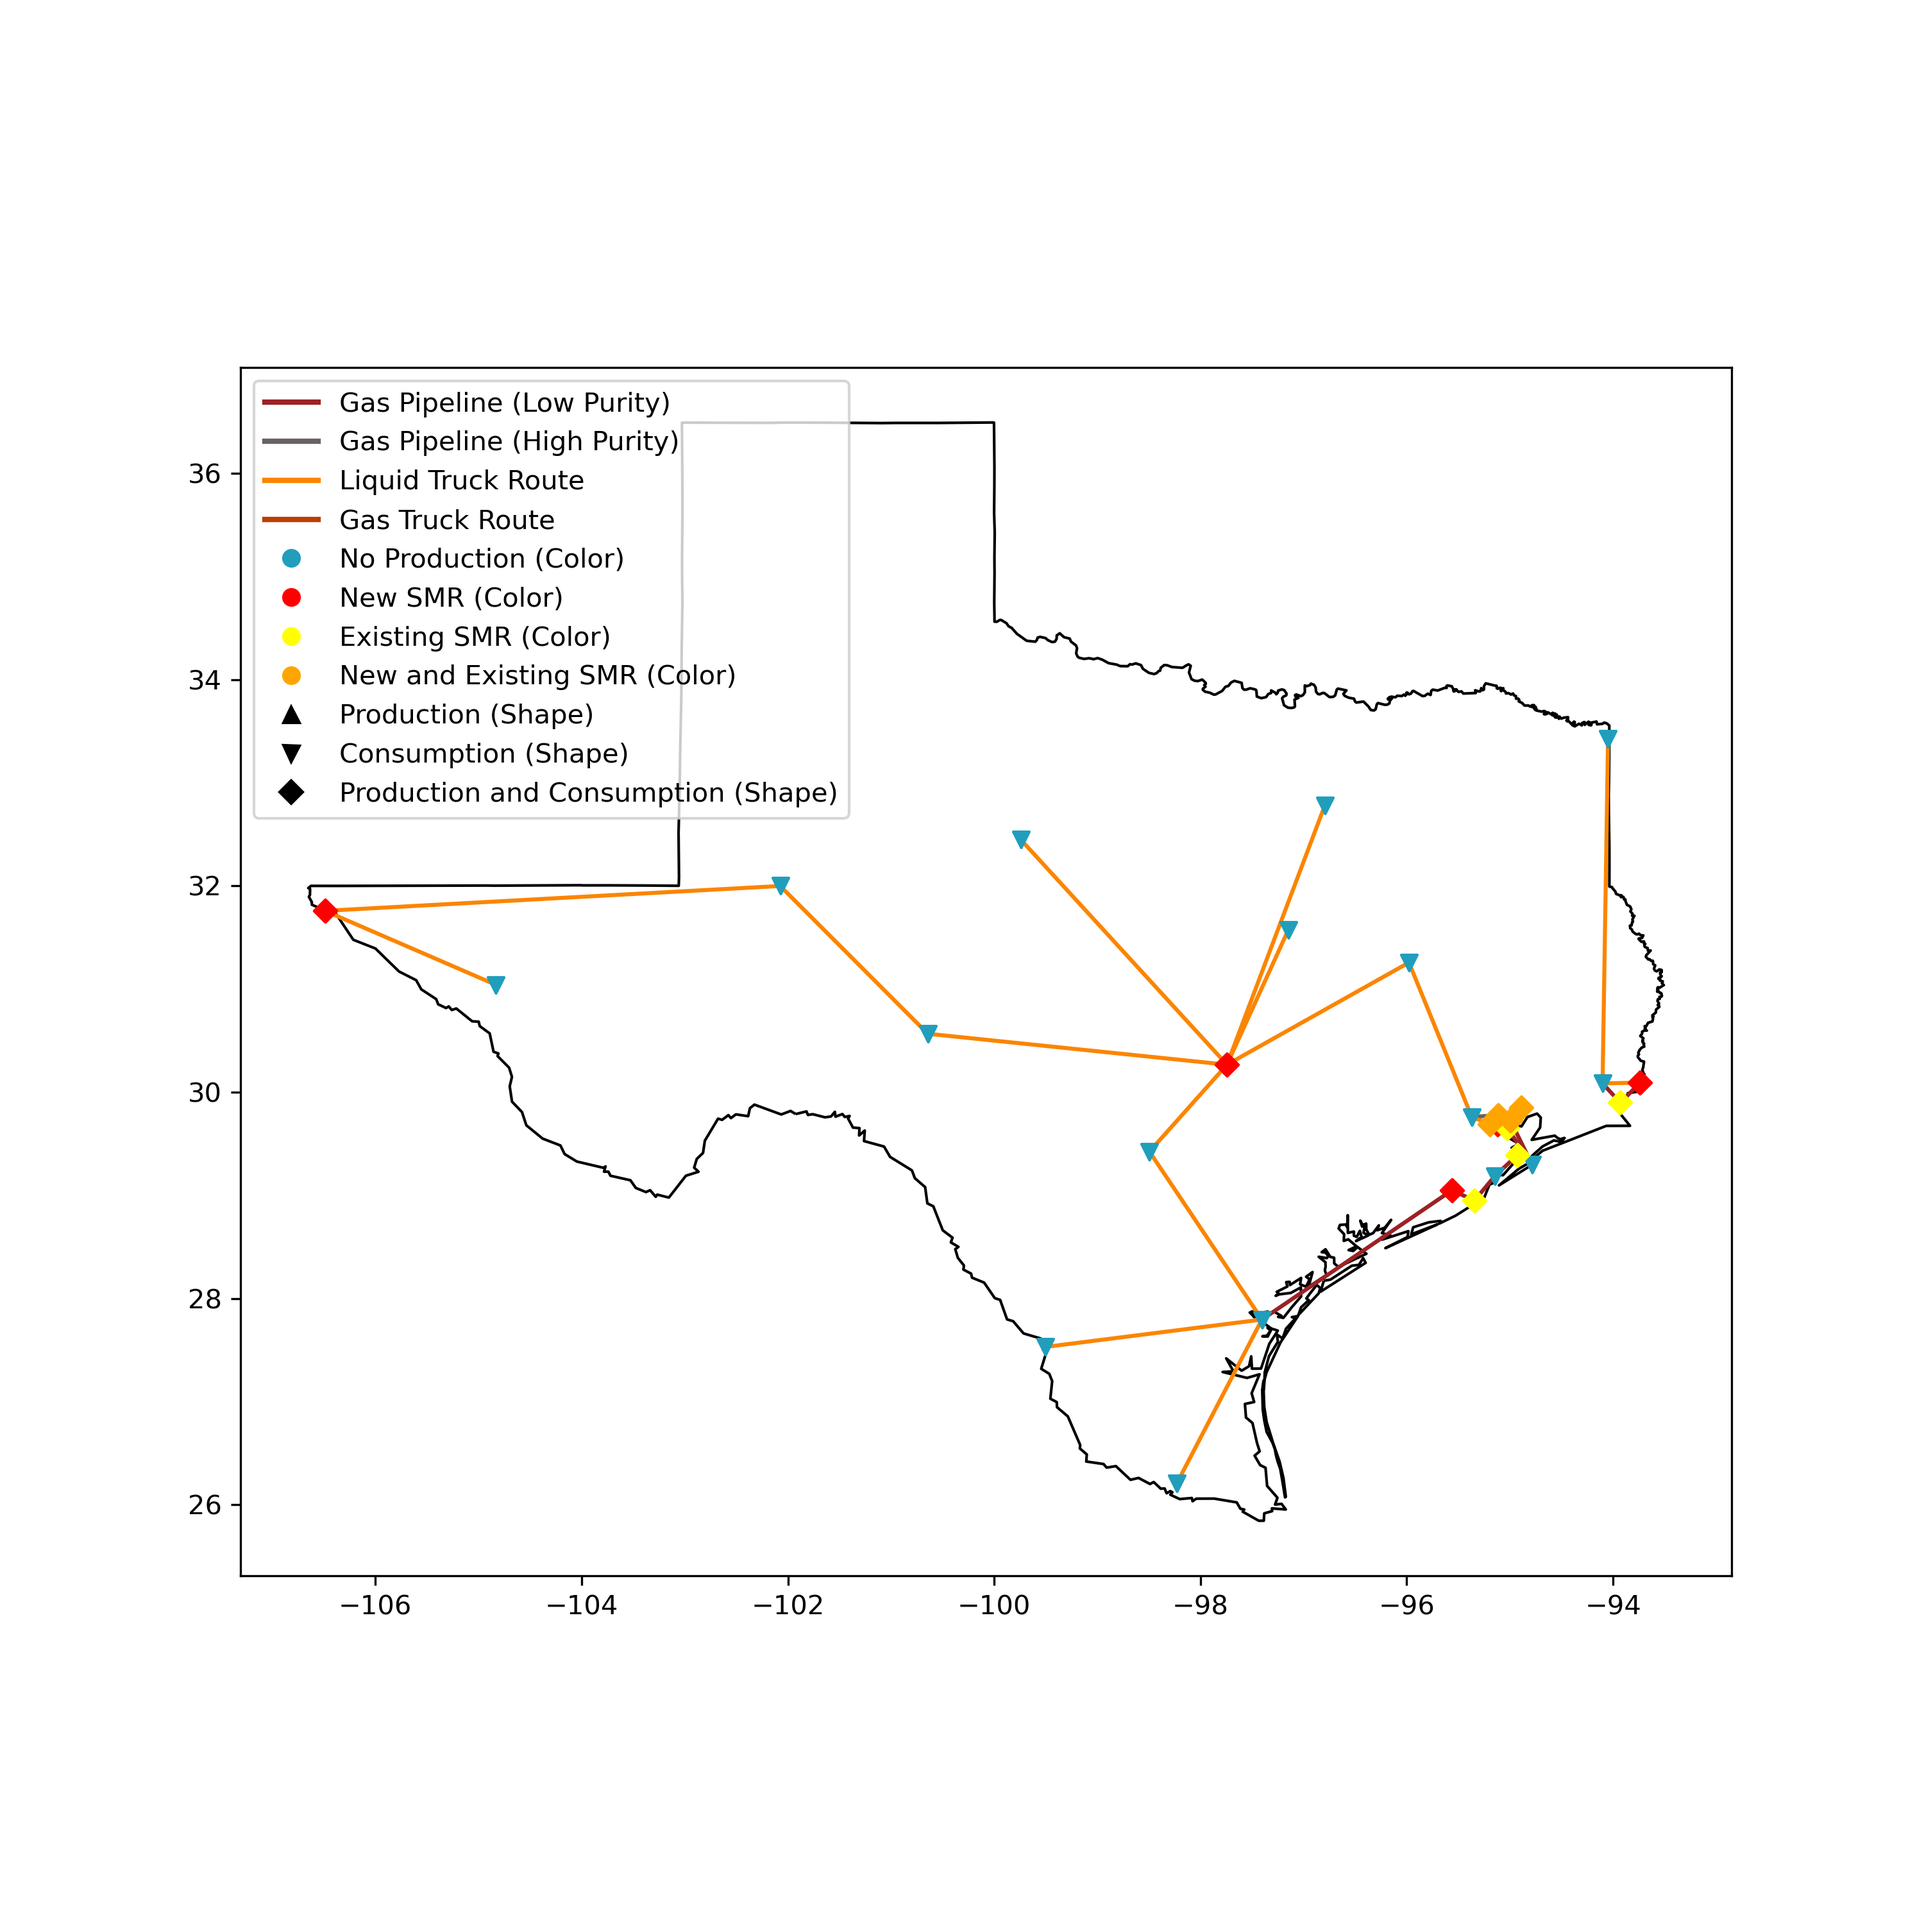
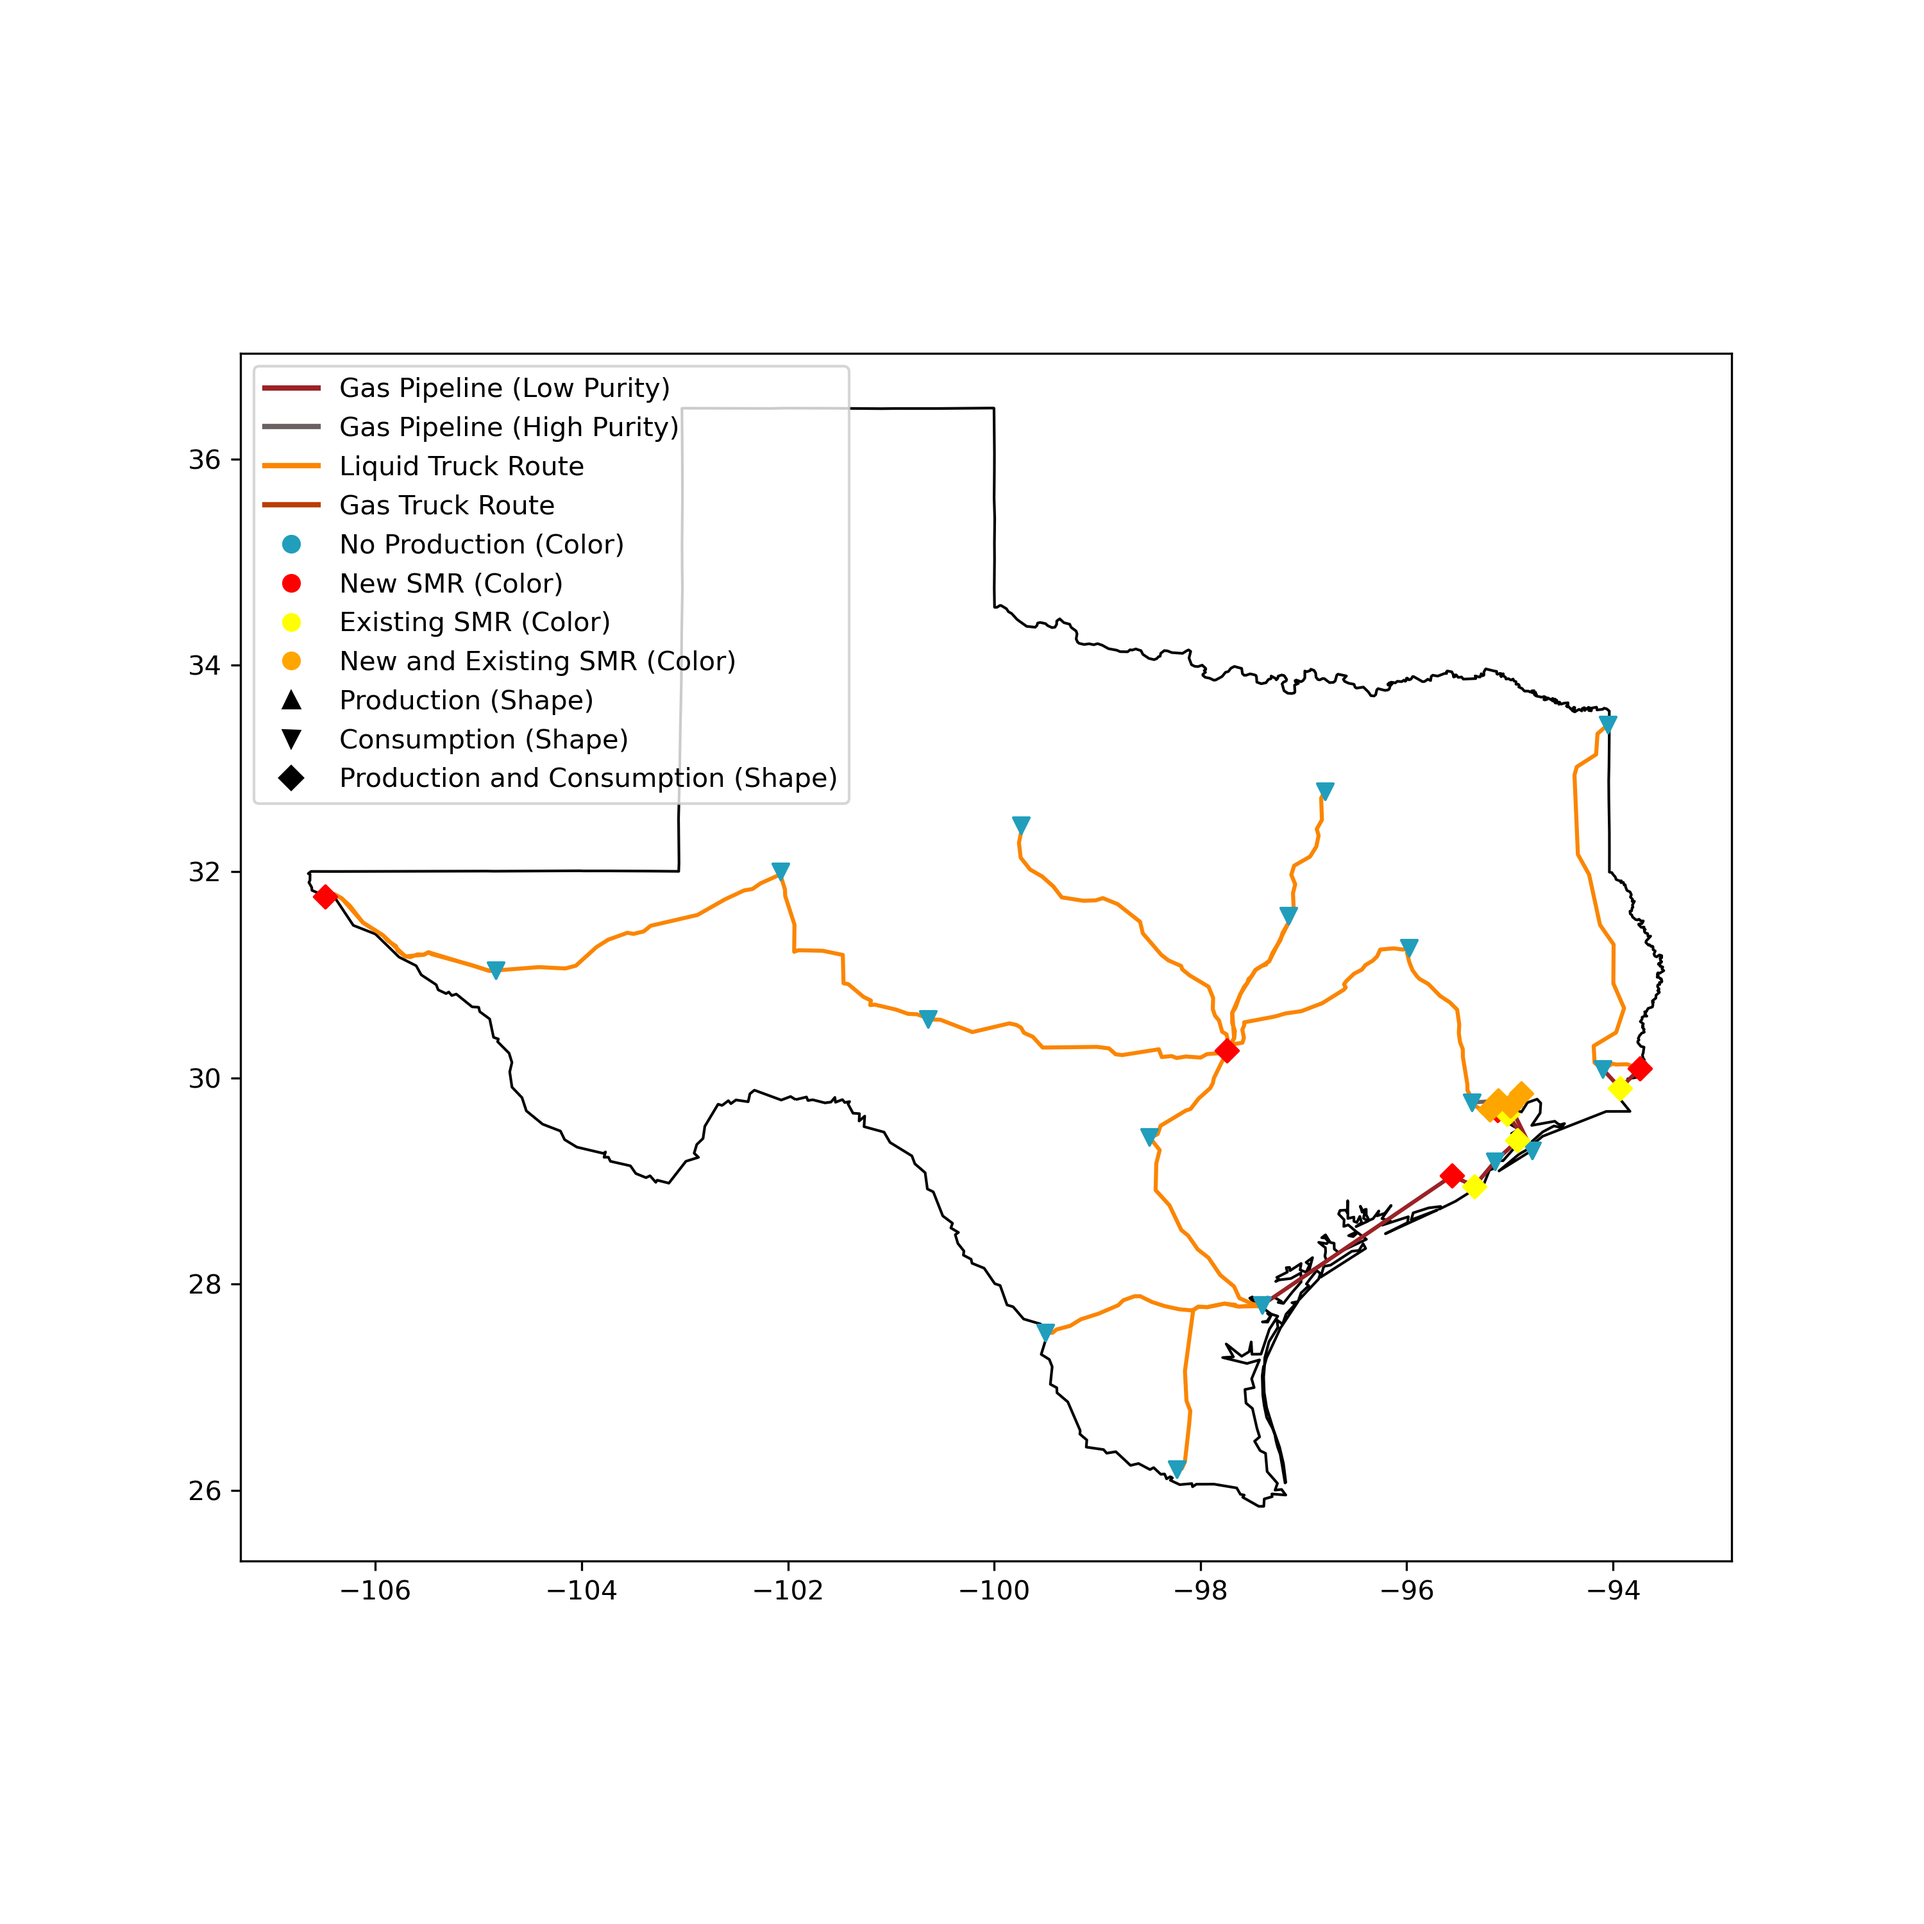
create_plot.py plots roads

diff --git a/data/create_plot.py b/data/create_plot.py
@@ -10,18 +10,12 @@ import geopandas as gpd
 import matplotlib.pyplot as plt
 from matplotlib.lines import Line2D
 import json
+from nodes.roads_to_gdf import roads_to_gdf
 
-## for development 
-# data = json.load(open('base/outputs/outputs.json'))
-# path='data/base/'
+# TODO change file paths to be more clear
 
 def main(data, path='data/base/',us_county_shp_file='data/US_COUNTY_SHPFILE/US_county_cont.shp'):
-    
-    # it seems that geopandas has a built in geocoder, but this was the first thing that worked
-    # maybe its worth changing eventually...
-    # locations = {node: geocoder.arcgis(node + ' Texas').latlng for node in data.keys()} # takes ~ 30 seconds
-    # for _, latlong in locations.items():
-    #     latlong.reverse() # is in opposite order of how geopandas will interpret 
+
     node_data = json.load(open('data/nodes/nodes.geojson'))['features']
     locations = {d['properties']['node']: d['geometry']['coordinates'] for d in node_data}
 
@@ -80,6 +74,8 @@ def main(data, path='data/base/',us_county_shp_file='data/US_COUNTY_SHPFILE/US_c
                 },
                 'properties' : {
                     'name': node + ' to ' + dest,
+                    'start': node,
+                    'end' : dest,
                     'dist_type': dist_type
                 }
             }
@@ -176,15 +172,30 @@ def main(data, path='data/base/',us_county_shp_file='data/US_COUNTY_SHPFILE/US_c
 
     # Plot connections: 
     connections = distribution[distribution.type == 'LineString']
+
+    # get data from roads csv
+    roads = roads_to_gdf('data/nodes/')
+        # geodataframe with all roads. currently plots connections, but could be used as a layer instead?
+    roads_connections = connections.copy()
+
+    for row in roads.itertuples():
+        # get road geodata for each connection in connections df
+        nodeA = row.nodeA
+        nodeB = row.nodeB
+        roads_connections.loc[(roads_connections['start'] == nodeA) & (roads_connections['end'] == nodeB),'geometry'] = row.geometry
+        roads_connections.loc[(roads_connections['end'] == nodeA) & (roads_connections['start'] == nodeB),'geometry'] = row.geometry
+
     dist_pipelineLowPurity_col = '#9b2226'
     dist_pipelineHighPurity_col = '#6A6262'
     dist_truckLiquefied_color = '#fb8500'
     dist_truckCompressed_color = '#bb3e03'
+
     connections[connections['dist_type'] == 'dist_pipelineLowPurity'].plot(ax=ax, color = dist_pipelineLowPurity_col, zorder=1)
     connections[connections['dist_type'] == 'dist_pipelineHighPurity'].plot(ax=ax, color = dist_pipelineHighPurity_col, zorder=1)
 
-    connections[connections['dist_type'] == 'dist_truckLiquefied'].plot(ax=ax, color = dist_truckLiquefied_color, zorder=1)
-    connections[connections['dist_type'] == 'dist_truckCompressed'].plot(ax=ax, color = dist_truckCompressed_color, legend=True, zorder=1)
+    # change 'road_connections' to 'connections' to plot straight lines
+    roads_connections[connections['dist_type'] == 'dist_truckLiquefied'].plot(ax=ax, color = dist_truckLiquefied_color, zorder=1)
+    roads_connections[connections['dist_type'] == 'dist_truckCompressed'].plot(ax=ax, color = dist_truckCompressed_color, legend=True, zorder=1)
 
     legend_elements = [Line2D([0], [0], color=dist_pipelineLowPurity_col, lw=2, label='Gas Pipeline (Low Purity)'), 
                        Line2D([0], [0], color=dist_pipelineHighPurity_col, lw=2, label='Gas Pipeline (High Purity)'), 

diff --git a/data/nodes/roads_to_gdf.py b/data/nodes/roads_to_gdf.py
@@ -1,0 +1,29 @@
+"""
+Author: Braden Pecora
+
+Converts roads.csv into a GeoDataFrame object
+
+This is necessary since .geojson files can not handle LineStrings with multiple points.
+Road geodata are stored as csv, where the geodata are stored as literal strings.
+The shapely.wkt function "loads" can interpret this literal string and convert into a LineString object
+"""
+from shapely.wkt import loads
+import geopandas as gpd
+
+def roads_to_gdf(wd=''):
+    #wd is path to this current directory, '/nodes'
+
+    # get nodes for crs
+    nodes = gpd.read_file(wd+'nodes.geojson')
+
+    # read csv and convert geometry column
+    roads = gpd.read_file(wd+'roads.csv')
+    roads['geometry'] = roads['road_geometry'].apply(loads) # convert string into Linestring
+    roads = roads.set_crs(nodes.crs)
+    del roads['road_geometry']
+
+    return roads
+
+if __name__ == "__main__":
+    roads = roads_to_gdf()
+    print(roads)

diff --git a/data/create_arcs.py b/data/create_arcs.py
@@ -217,6 +217,11 @@ def main():
     gdf_latlong[['road_duration','kmLength_road','road_geometry']] = gdf_latlong['LINE'].apply(make_route)
     gdf_roads = gdf_latlong.set_geometry('road_geometry').to_crs(epsg=epsg)
 
+    # save roads data
+    roads_df = gdf_roads.to_crs(crs=lat_long_crs)
+    roads_df = pd.DataFrame(roads_df.geometry)
+    roads_df.to_csv('nodes/roads.csv')
+
     gdf_trimmed.plot(ax=ax,color='grey')
     gdf_roads.plot(ax=ax)
     fig.savefig('nodes/fig.png')
